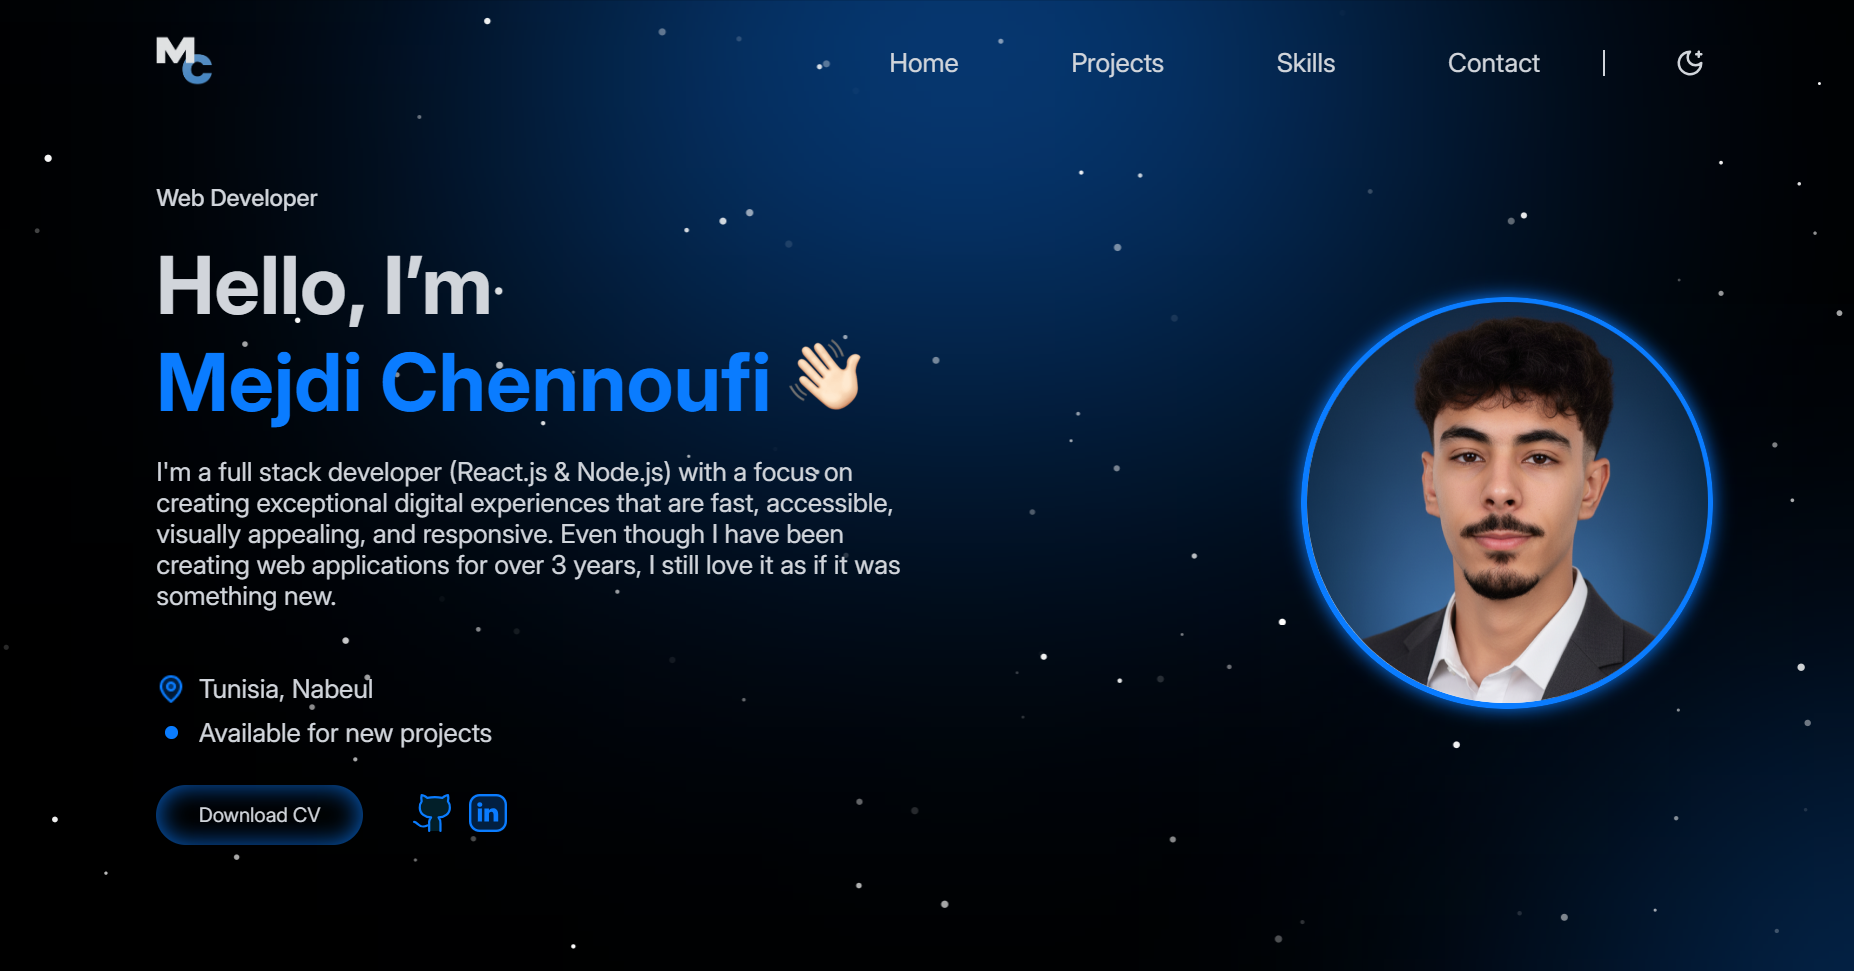
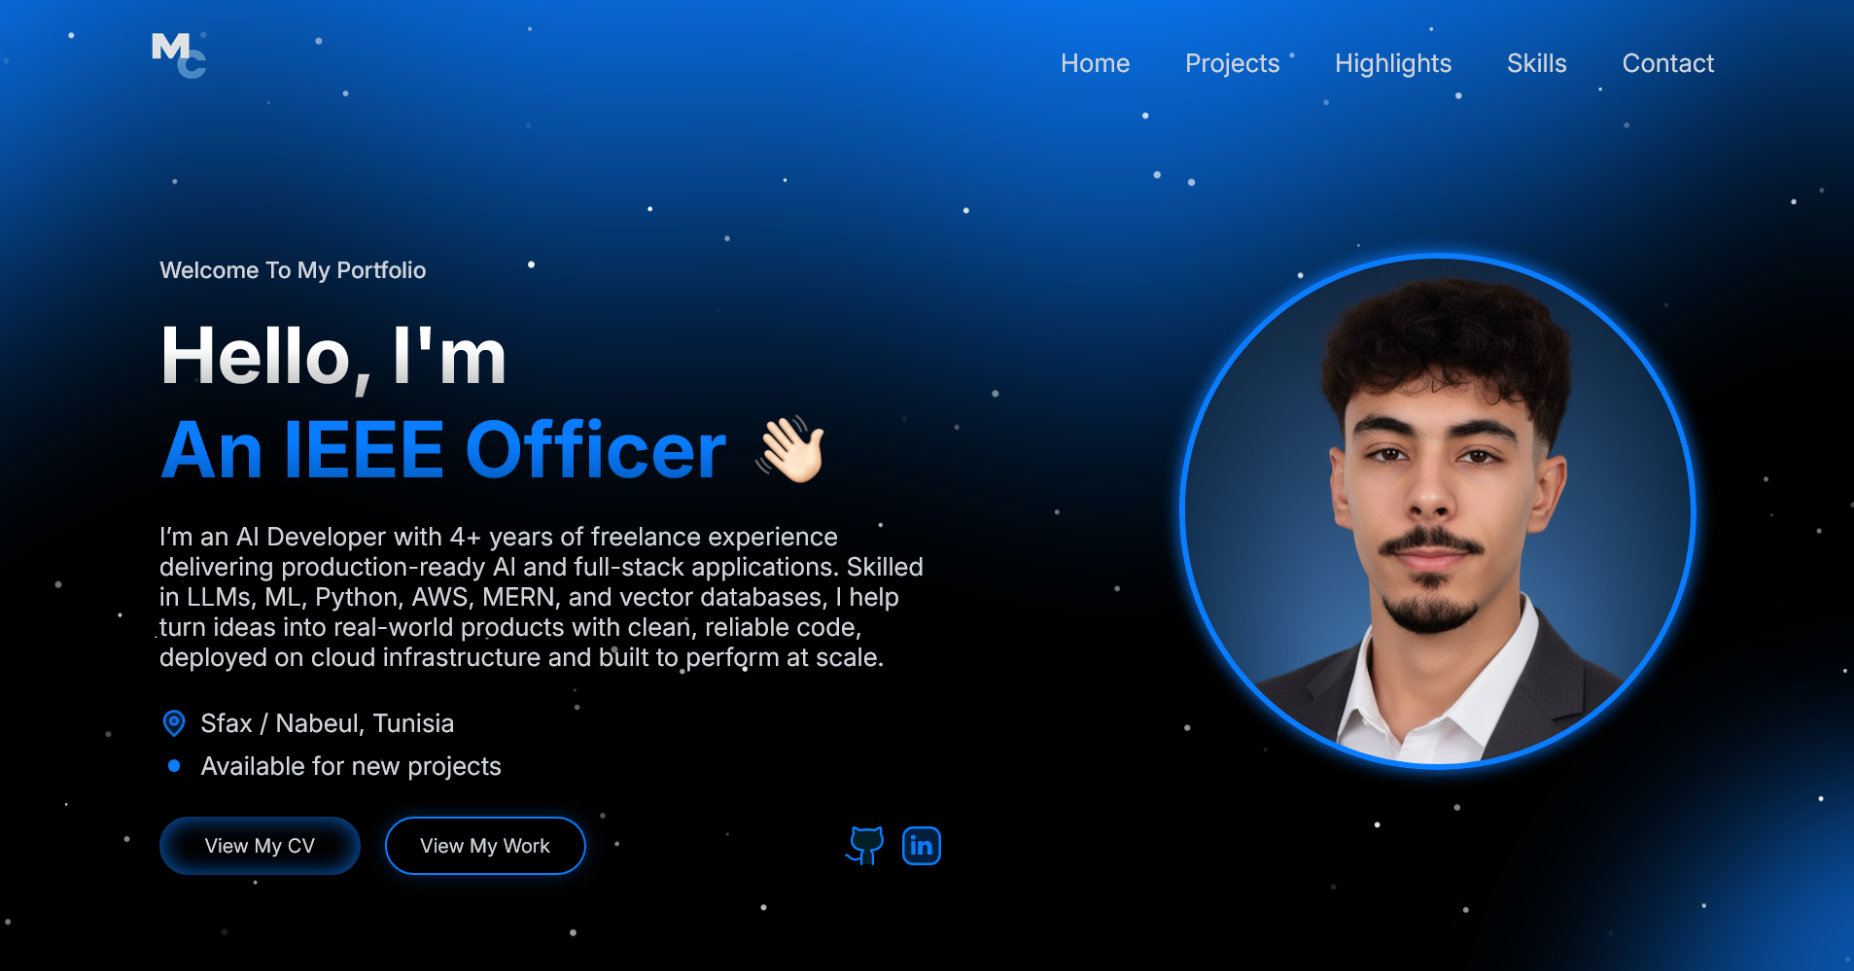
OG & SEO

diff --git a/index.html b/index.html
@@ -1,57 +1,70 @@
 <!DOCTYPE html>
 <html lang="en">
-  <head>
-    <base href="/">
-    <meta charset="utf-8" />
-    <link rel="icon" href="/favicon.ico" />
 
-    <meta name="viewport" content="width=device-width, initial-scale=1" />
-    <meta name="theme-color" content="#000" />
+<head>
+  <base href="/">
+  <meta charset="utf-8" />
+  <link rel="icon" href="/favicon.ico" />
 
-    <!-- Primary Meta Tags -->
-    <title>Mejdi Ch. | Portfolio</title>
-    <meta name="title" content="Mejdi Ch. | Portfolio - Full-Stack Developer" />
-    <meta name="description" content="From dynamic web apps to intelligent IoT systems, I turn ideas into real, functional products. My portfolio showcases hands-on projects, freelance solutions, and experimental builds that blend creativity, code, and real-world impact." />
-    <meta name="keywords" content="Mejdi Chennoufi, Full-Stack Developer, Web Development, Mobile Apps, IoT Solutions, React, Node.js, Flutter, MongoDB, Portfolio, Software Developer" />
-    <meta name="author" content="Mejdi Chennoufi" />
-    <meta name="robots" content="index, follow" />
-    <link rel="canonical" href="https://mejdi.ch/" />
+  <meta name="viewport" content="width=device-width, initial-scale=1" />
+  <meta name="theme-color" content="#000" />
 
-    <!-- Open Graph / Facebook -->
-    <meta property="og:type" content="website" />
-    <meta property="og:url" content="https://mejdi.ch/" />
-    <meta property="og:title" content="Mejdi Ch. | Portfolio" />
-    <meta property="og:description" content="From dynamic web apps to intelligent IoT systems, I turn ideas into real, functional products. My portfolio showcases hands-on projects, freelance solutions, and experimental builds that blend creativity, code, and real-world impact." />
-    <meta property="og:image" content="https://www.mejdi.ch/preview.png" />
-    <meta property="og:image:width" content="1200" />
-    <meta property="og:image:height" content="630" />
-    <meta property="og:image:alt" content="Mejdi Chennoufi - Full-Stack Developer Portfolio" />
-    <meta property="og:site_name" content="Mejdi Ch. Portfolio" />
+  <!-- Primary Meta Tags -->
+  <title>Mejdi Ch. | Portfolio</title>
+  <meta name="title" content="Mejdi Ch. | Portfolio - AI Developer" />
+  <meta name="description"
+    content="I’m an AI Developer with 4+ years of freelance experience delivering production-ready AI and full-stack applications. Skilled in LLMs, ML, Python, AWS, MERN, and vector databases, I help turn ideas into real-world products with clean, reliable code, deployed on cloud infrastructure and built to perform at scale." />
+  <meta name="keywords"
+    content="Mejdi Chennoufi, AI Developer, Full-Stack Developer, Web Development, Mobile Apps, IoT Solutions, React, Node.js, Flutter, MongoDB, Portfolio, Software Developer" />
+  <meta name="author" content="Mejdi Chennoufi" />
+  <meta name="robots" content="index, follow" />
+  <link rel="canonical" href="https://mejdi.ch/" />
 
-    <!-- Twitter -->
-    <meta property="twitter:card" content="summary_large_image" />
-    <meta property="twitter:url" content="https://mejdi.ch/" />
-    <meta property="twitter:title" content="Mejdi Ch. | Portfolio" />
-    <meta property="twitter:description" content="From dynamic web apps to intelligent IoT systems, I turn ideas into real, functional products. My portfolio showcases hands-on projects, freelance solutions, and experimental builds." />
-    <meta property="twitter:image" content="https://www.mejdi.ch/preview.png" />
+  <!-- Open Graph / Facebook -->
+  <meta property="og:type" content="website" />
+  <meta property="og:url" content="https://mejdi.ch/" />
+  <meta property="og:title" content="Mejdi Ch. | Portfolio" />
+  <meta property="og:description"
+    content="I’m an AI Developer with 4+ years of freelance experience delivering production-ready AI and full-stack applications. Skilled in LLMs, ML, Python, AWS, MERN, and vector databases, I help turn ideas into real-world products with clean, reliable code, deployed on cloud infrastructure and built to perform at scale." />
+  <meta property="og:image" content="https://www.mejdi.ch/preview.png" />
+  <meta property="og:image:width" content="1200" />
+  <meta property="og:image:height" content="630" />
+  <meta property="og:image:alt" content="Mejdi Chennoufi - AI Developer Portfolio" />
+  <meta property="og:site_name" content="Mejdi Ch. Portfolio" />
 
-    <!-- Structured Data (JSON-LD) -->
-    <script type="application/ld+json">
+  <!-- Twitter -->
+  <meta property="twitter:card" content="summary_large_image" />
+  <meta property="twitter:url" content="https://mejdi.ch/" />
+  <meta property="twitter:title" content="Mejdi Ch. | Portfolio" />
+  <meta property="twitter:description"
+    content="I’m an AI Developer with 4+ years of freelance experience delivering production-ready AI and full-stack applications. Skilled in LLMs, ML, Python, AWS, MERN, and vector databases, I help turn ideas into real-world products with clean, reliable code, deployed on cloud infrastructure and built to perform at scale." />
+  <meta property="twitter:image" content="https://www.mejdi.ch/preview.png" />
+
+  <!-- Structured Data (JSON-LD) -->
+  <script type="application/ld+json">
     {
       "@context": "https://schema.org",
       "@type": "Person",
       "name": "Mejdi Chennoufi",
       "url": "https://mejdi.ch",
       "image": "https://www.mejdi.ch/preview.png",
-      "jobTitle": "Full-Stack Developer",
-      "description": "Full-Stack Developer with experience delivering scalable web, mobile, and IoT solutions. Skilled in React, Node.js, Flutter and MongoDB.",
+      "jobTitle": "AI Developer",
+      "description": "AI Developer with experience delivering scalable web, mobile, and IoT solutions. Skilled in React, Node.js, Flutter and MongoDB.",
       "sameAs": [
         "https://www.linkedin.com/in/mejdichennoufi/",
-        "https://github.com/MejdiDev",
+        "https://github.com/MejdiDevs",
         "https://www.facebook.com/mejdy.chennoufy/",
         "https://www.instagram.com/mejdichennoufi/"
       ],
       "knowsAbout": [
+        "AI Development",
+        "Machine Learning",
+        "Deep Learning",
+        "LLMs",
+        "Vector Databases",
+        "AWS",
+        "Python",
+        "MERN",
         "Web Development",
         "Mobile App Development",
         "IoT Solutions",
@@ -65,23 +78,25 @@
     }
     </script>
 
-    <script type="application/ld+json">
+  <script type="application/ld+json">
     {
       "@context": "https://schema.org",
       "@type": "WebSite",
       "name": "Mejdi Ch. Portfolio",
       "url": "https://mejdi.ch",
-      "description": "Portfolio website showcasing full-stack development projects, web apps, mobile applications, and IoT solutions.",
+      "description": "Portfolio website showcasing AI & full-stack development projects, web apps, mobile applications, and IoT solutions.",
       "author": {
         "@type": "Person",
         "name": "Mejdi Chennoufi"
       }
     }
     </script>
-  </head>
-  <body>
-    <noscript>You need to enable JavaScript to run this app.</noscript>
-    <div id="root"></div>
-    <script type="module" src="/src/index.jsx"></script>
-  </body>
+</head>
+
+<body>
+  <noscript>You need to enable JavaScript to run this app.</noscript>
+  <div id="root"></div>
+  <script type="module" src="/src/index.jsx"></script>
+</body>
+
 </html>

diff --git a/src/components/Hero.jsx b/src/components/Hero.jsx
@@ -118,7 +118,7 @@ const Hero = () => {
                         <h1 className={isSectionVisible ? 'fade_in delay_2' : ''}>
                             <span style={{ display: 'inline-flex', alignItems: 'center', gap: '0.3em' }}>
                                 <RotatingText
-                                    texts={['Mejdi Chennoufi', 'A Software Developer', 'A Web Developer', 'A Mobile Developer', 'An IoT Developer', 'A Volunteer', 'An IEEE Member']}
+                                    texts={['Mejdi Chennoufi', 'An AI Developer', 'A Software Developer', 'A Web Developer', 'A Mobile Developer', 'An IoT Developer', 'An IEEE Officer', 'A Volunteer']}
                                     mainClassName="px-2 sm:px-2 md:px-3 bg-cyan-300 text-black overflow-hidden py-0.5 sm:py-1 md:py-2 justify-center rounded-lg"
                                     staggerFrom="last"
                                     initial={{ y: '100%' }}
@@ -135,7 +135,7 @@ const Hero = () => {
 
                     </div>
 
-                    <p>I'm a Full-Stack Developer with {calcYrs()}+ years of freelance experience delivering scalable web, mobile, and IoT solutions. Skilled in React, Node.js, Flutter and MongoDB, I help clients bring their ideas to life with clean, reliable code, delivered on time and built to last, with plenty of real-world projects to show for it.</p>
+                    <p>I’m an AI Developer with {calcYrs()}+ years of freelance experience delivering production-ready AI and full-stack applications. Skilled in LLMs, ML, Python, AWS, MERN, and vector databases, I help turn ideas into real-world products with clean, reliable code, deployed on cloud infrastructure and built to perform at scale.</p>
 
                     {/* <div id="services_summary">
                         <div className="service_tag" onClick={() => {
@@ -174,7 +174,7 @@ const Hero = () => {
 
                     <div className="impt">
                         <img src="./icons/pin.png" alt="Location Pin" />
-                        <p>Nabeul, Tunisia</p>
+                        <p>Sfax / Nabeul, Tunisia</p>
                     </div>
 
                     <div className="impt">
